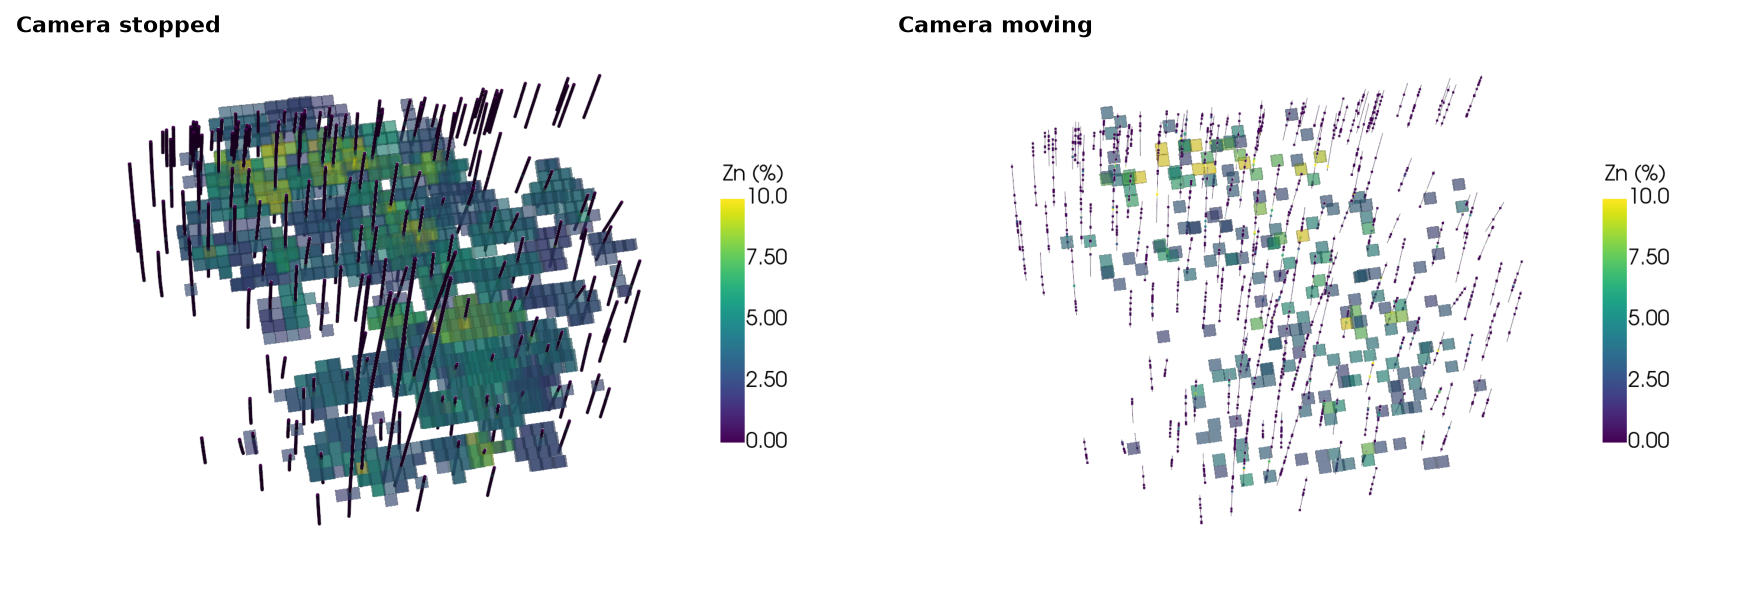
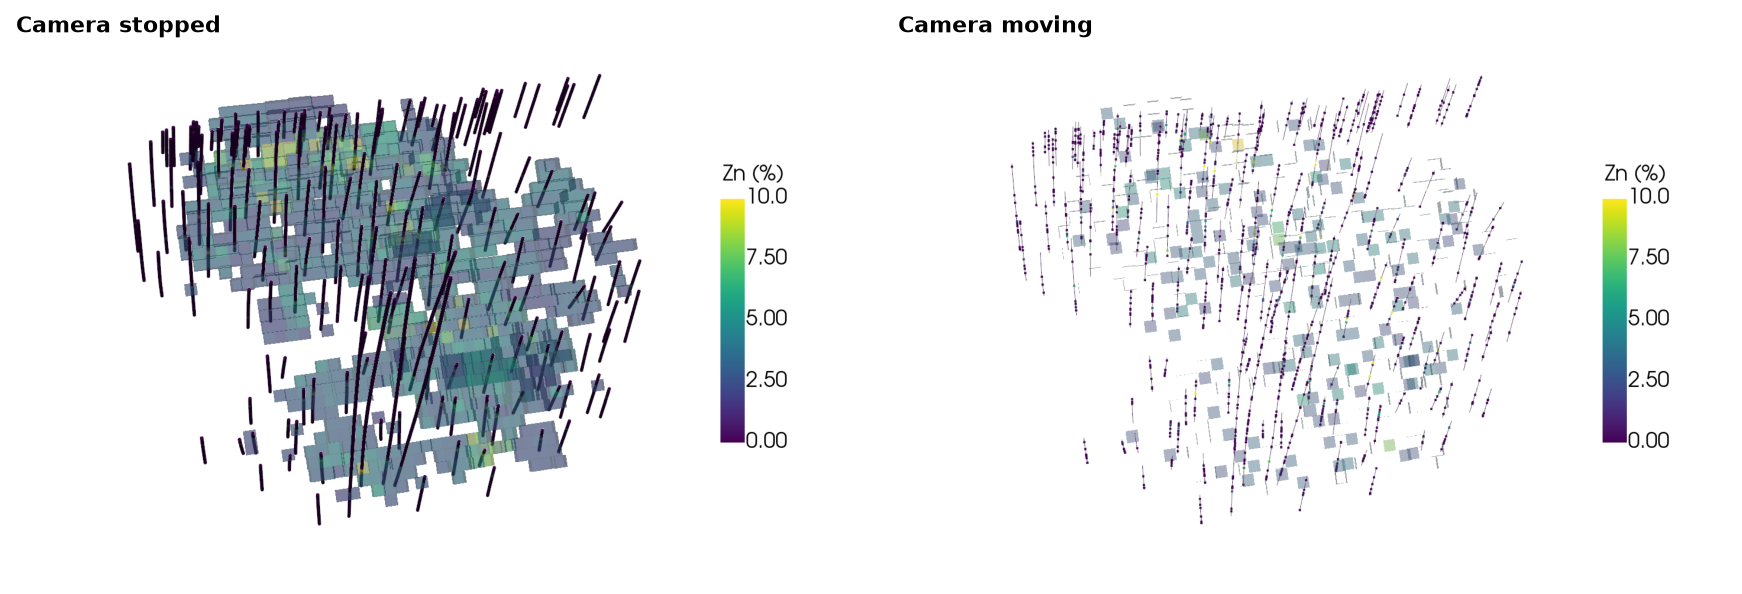
fix(plot3d): motion quality thins the outer faces of masked and sub-blocked models

Changed region(s): [[0.093, 0.1515, 0.372, 0.8485], [0.589, 0.1818, 0.868, 0.8182]]

diff --git a/python/boitata/plot3d.py b/python/boitata/plot3d.py
@@ -296,7 +296,7 @@ class Scene:
         number in (0, 1] a cheaper copy of every layer with about that fraction of its geometry. Once the camera
         stops, the layers draw in full again. Each copy is built the first time the camera moves and kept: a
         regular block model takes every n-th block along each axis, points a fixed random subset drawn flat,
-        other cells (masked or sub-blocked models) a fixed random subset, drill holes lines in place of tubes,
+        other cells and the faces of masked or sub-blocked models a fixed random subset, drill holes lines in place of tubes,
         surfaces a decimated copy; each keeps its layer's colors and leaves nulls out. Takes effect in the native window and in trame with server
         rendering; client rendering (vtk.js, ``show(browser=True)``) draws the full layers.
     **kwargs
@@ -368,6 +368,9 @@ class Scene:
     def _degrade(self, data, mesh, flat, values, style, kwargs, actor):
         if actor is None or self.motion_quality == "full":
             return None
+        if isinstance(mesh, _Solid):
+            faces = actor.mapper.GetInputAlgorithm().GetInputDataObject(0, 0)
+            mesh = _pyvista().wrap(faces).cast_to_unstructured_grid()
         fraction = self.motion_quality
         if fraction == "auto":
             size = mesh.n_points if _points_only(mesh) else mesh.n_cells

diff --git a/examples/02-data-and-geometry/21-live-scene/example_02_21.py b/examples/02-data-and-geometry/21-live-scene/example_02_21.py
@@ -121,8 +121,8 @@ save(image(scene, "Zn assays down a fence of holes, one tube mesh", view=(1, -0.
 # %% [markdown]
 # while the camera moves, `motion_quality` swaps each layer for a cheaper copy and draws it in full again once the
 # camera stops. `"auto"`, the default, only does so above a million cells or points; a number asks for about that
-# fraction of every layer's geometry. here a tenth: the blocks above 2 % Zn thin to a fixed random tenth of
-# them, the composites likewise as flat points, the assay tubes become lines. off-screen, a render at the interactive
+# fraction of every layer's geometry. here a tenth: the outer faces of the blocks above 2 % Zn thin to a fixed random
+# tenth, the composites likewise as flat points, the assay tubes become lines. off-screen, a render at the interactive
 # update rate stands in for a drag. the swap needs the camera events of the native window or of trame's server
 # rendering; trame's client rendering (vtk.js) and `show(browser=True)` always draw the full layers.
 

diff --git a/examples/02-data-and-geometry/21-live-scene/README.md b/examples/02-data-and-geometry/21-live-scene/README.md
@@ -147,8 +147,8 @@ save(image(scene, "Zn assays down a fence of holes, one tube mesh", view=(1, -0.
 
 while the camera moves, `motion_quality` swaps each layer for a cheaper copy and draws it in full again once the
 camera stops. `"auto"`, the default, only does so above a million cells or points; a number asks for about that
-fraction of every layer's geometry. here a tenth: the blocks above 2 % Zn thin to a fixed random tenth of
-them, the composites likewise as flat points, the assay tubes become lines. off-screen, a render at the interactive
+fraction of every layer's geometry. here a tenth: the outer faces of the blocks above 2 % Zn thin to a fixed random
+tenth, the composites likewise as flat points, the assay tubes become lines. off-screen, a render at the interactive
 update rate stands in for a drag. the swap needs the camera events of the native window or of trame's server
 rendering; trame's client rendering (vtk.js) and `show(browser=True)` always draw the full layers.
 
